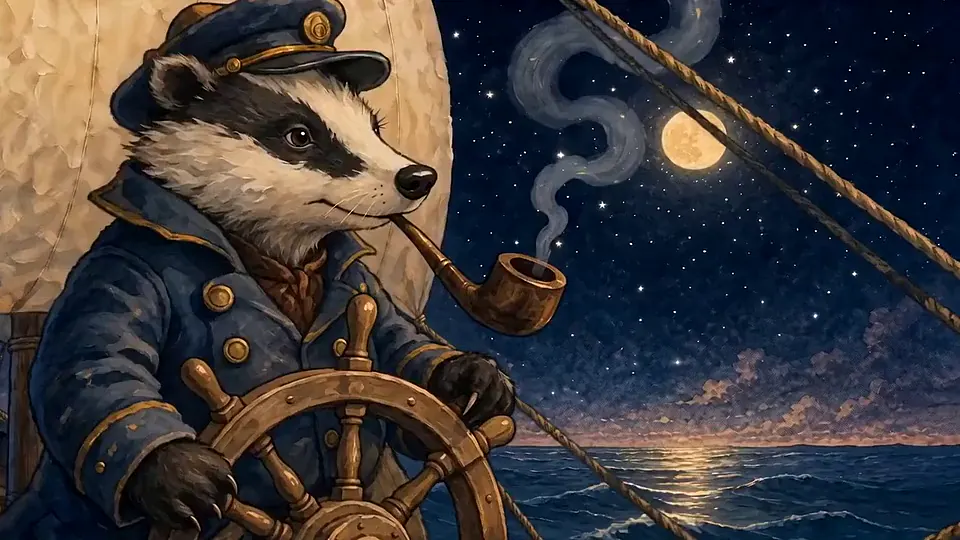
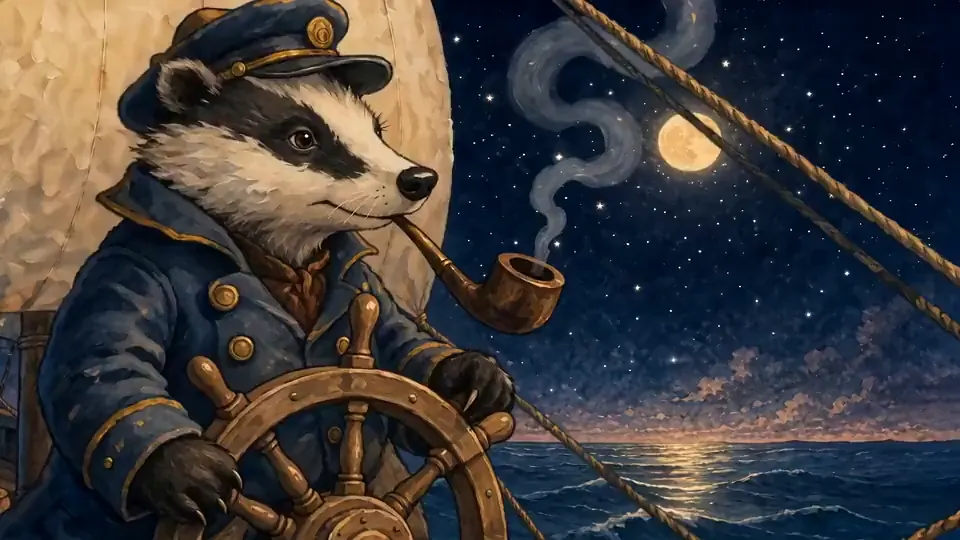
fix: reframe and shorten mobile finale

diff --git a/public/scroll-world/scroll-world.js b/public/scroll-world/scroll-world.js
@@ -1,5 +1,6 @@
 const MEDIA = '/media/scroll-world'
 const CONTACT_ENDPOINT = 'https://formspree.io/f/xdkdvdol'
+const FINALE_MOBILE_VERSION = '20260721-1'
 
 const scenes = [
   {
@@ -161,11 +162,15 @@ window.addEventListener('pagehide', releaseVideos, { once: true })
 
 function mediaUrl(id, type) {
   const mobile = phoneClass ? '-m' : ''
-  return `${MEDIA}/${type}/${id}${mobile}.${type === 'video' ? 'mp4' : 'webp'}`
+  const url = `${MEDIA}/${type}/${id}${mobile}.${type === 'video' ? 'mp4' : 'webp'}`
+  return phoneClass && id === '05-finale-contact'
+    ? `${url}?v=${FINALE_MOBILE_VERSION}`
+    : url
 }
 
 function finaleStillUrl() {
-  return `${MEDIA}/posters/05-finale-contact-final${phoneClass ? '-m' : ''}.webp`
+  const url = `${MEDIA}/posters/05-finale-contact-final${phoneClass ? '-m' : ''}.webp`
+  return phoneClass ? `${url}?v=${FINALE_MOBILE_VERSION}` : url
 }
 
 function makeSegment(config) {

diff --git a/components/sections/ScrollWorldHome.tsx b/components/sections/ScrollWorldHome.tsx
@@ -258,7 +258,7 @@ export default function ScrollWorldHome() {
         </section>
       </main>
 
-      <Script src="/scroll-world/scroll-world.js?v=20260721-2" strategy="afterInteractive" />
+      <Script src="/scroll-world/scroll-world.js?v=20260721-3" strategy="afterInteractive" />
       <script
         type="application/ld+json"
         dangerouslySetInnerHTML={{ __html: JSON.stringify(organizationSchema) }}